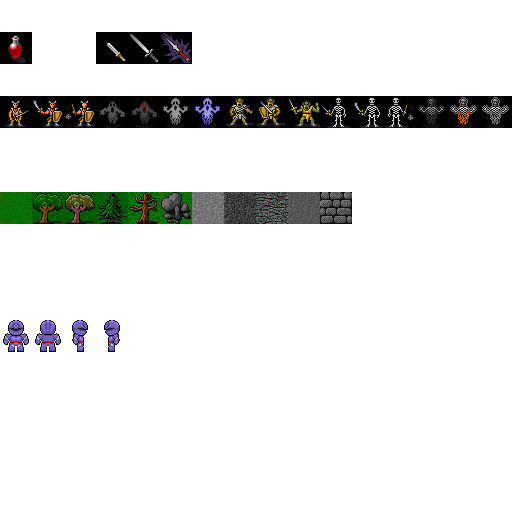
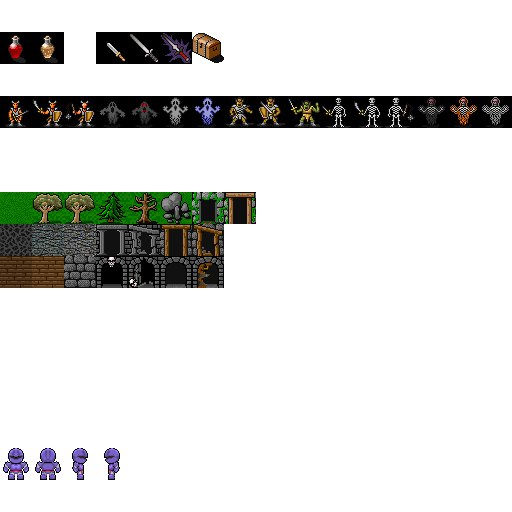
Improve themes and glyphs

diff --git a/resources/create_dungeonfont.py b/resources/create_dungeonfont.py
@@ -1,13 +1,15 @@
-from PIL import Image
+from PIL import Image, ImageEnhance
 
 PREFIX = "resources/glyphs/"
 
 glyphs = {
     # items ------------------------------
     16: "PotionRed.PNG",
+    17: "PotionRoundedTopaz.PNG",
     19: "Sword01.PNG",
     20: "SwordTwoHanded.PNG",
     21: "SwordMedievalMagical.PNG",
+    22: "chest.gif",
     # monsters -----------------------------
     48: "ImpFighter.PNG",
     49: "ImpFighter2.PNG",
@@ -27,24 +29,35 @@ glyphs = {
     63: "SpectreSilver.PNG",
     # tiles -------------------------------
     # grass theme
-    96: ("dg_grounds32.gif", 1, 1),  # grass
-    97: ("dg_grounds32.gif", 1, 6),  # tree1
-    98: ("dg_grounds32.gif", 4, 6),  # tree2
-    99: ("dg_grounds32.gif", 7, 6),  # tree3
-    100: ("dg_grounds32.gif", 7, 15),  # tree4
-    101: ("dg_grounds32.gif", 7, 18),  # rocks
+    96: ("dg_grounds32.gif", 0, 1, "darken", 0.8),  # grass
+    97: ("dg_grounds32.gif", 3, 6, "darken", 0.8),  # tree1
+    98: ("dg_grounds32.gif", 3, 6, "darken", 0.8),  # tree2
+    99: ("dg_grounds32.gif", 6, 6, "darken", 0.8),  # tree3
+    100: ("dg_grounds32.gif", 6, 15, "darken", 0.8),  # tree4
+    101: ("dg_grounds32.gif", 6, 18, "darken", 0.8),  # rocks
+    102: ("openSecretDoor21.gif", 0, 0, "darken", 0.9),  # exit
+    103: ("openDoor21.gif", 0, 0, "darken", 0.9),  # exit
     # cave theme
-    102: ("dg_grounds32.gif", 6, 0),  # cave floor
-    103: ("dg_features32.gif", 2, 10),  # cave wall
-    104: ("dg_features32.gif", 4, 1),  # cave wall2
+    112: ("floor13.gif", 0, 0, "darken", 0.5),  # cave floor
+    113: ("dg_features32.gif", 4, 1),  # cave wall
+    114: ("dg_features32.gif", 5, 1, "darken", 1.8),  # cave wall
+    115: ("dg_features32.gif", 1, 11),  # exit
+    116: ("dg_features32.gif", 2, 11),  # exit
+    117: ("dg_features32.gif", 1, 12),  # exit
+    118: ("dg_features32.gif", 2, 12),  # exit
     # dungeon theme
-    105: ("dg_grounds32.gif", 7, 0),  # dungeon floor
-    106: ("dg_features32.gif", 3, 10),  # dungeon wall
+    128: ("roomFloor32.gif", 0, 0, "darken", 0.5),  # dungeon floor
+    129: ("roomFloor32.gif", 0, 0, "darken", 0.6),  # dungeon floor
+    130: ("dg_features32.gif", 3, 10),  # dungeon wall
+    131: ("dg_features32.gif", 1, 2),  # exit
+    132: ("dg_features32.gif", 2, 2),  # exit
+    133: ("dg_features32.gif", 1, 7),  # exit
+    134: ("dg_features32.gif", 2, 7),  # exit
     # player ------------------------------
-    160: ("RPGCharacterSprites32x32.png", 1, 11),  # front
-    161: ("RPGCharacterSprites32x32.png", 5, 11),  # back
-    162: ("RPGCharacterSprites32x32.png", 9, 11),  # right
-    163: ("RPGCharacterSprites32x32.png", 9, 11, "flip"),  # left
+    224: ("RPGCharacterSprites32x32.png", 1, 11),  # front
+    225: ("RPGCharacterSprites32x32.png", 5, 11),  # back
+    226: ("RPGCharacterSprites32x32.png", 9, 11),  # right
+    227: ("RPGCharacterSprites32x32.png", 9, 11, "flip"),  # left
 }
 
 dungeonfont = Image.new("RGBA", (32 * 16, 32 * 16), (0, 0, 0, 0))
@@ -56,13 +69,19 @@ for index, glyph in glyphs.items():
     if isinstance(glyph, str):
         img = Image.open(PREFIX + glyph)
     else:
-        glyph, x_, y_, *flip = glyph
+        glyph, x_, y_, *args = glyph
         img = Image.open(PREFIX + glyph)
         x_ *= 32
         y_ *= 32
         img = img.crop((x_, y_, x_ + 32, y_ + 32))
-        if len(flip) > 0:
+
+        if "flip" in args:
             img = img.transpose(Image.FLIP_LEFT_RIGHT)
+
+        if "darken" in args:
+            amount = args[args.index("darken") + 1]
+            img = img.convert("RGBA")
+            img = ImageEnhance.Brightness(img).enhance(amount)
 
     if img.size != (32, 32):
         border = (img.size[0] - 32) // 2

diff --git a/src/map_builder/themes.rs b/src/map_builder/themes.rs
@@ -9,16 +9,17 @@ impl DungeonTheme {
 }
 
 impl MapTheme for DungeonTheme {
-    fn tile_to_render(&self, tile_type: TileType, _random: usize) -> FontCharType {
+    fn tile_to_render(&self, tile_type: TileType, random: usize) -> FontCharType {
+        let mut rng = RandomNumberGenerator::seeded(random as u64);
         match tile_type {
-            TileType::Floor => 105,
-            TileType::Wall => 106,
-            TileType::Exit => 0,
+            TileType::Floor => rng.range(128, 130),
+            TileType::Wall => 130,
+            TileType::Exit => rng.range(131, 135),
         }
     }
 
     fn get_darkness(&self) -> (u8, u8, u8) {
-        GREY20
+        GREY30
     }
 }
 
@@ -31,19 +32,39 @@ impl ForestTheme {
 }
 
 impl MapTheme for ForestTheme {
-    #[allow(clippy::cast_possible_truncation)]
-    #[allow(clippy::cast_sign_loss)]
-    #[allow(clippy::cast_precision_loss)]
     fn tile_to_render(&self, tile_type: TileType, random: usize) -> FontCharType {
         let mut rng = RandomNumberGenerator::seeded(random as u64);
         match tile_type {
             TileType::Floor => 96,
-            TileType::Wall => rng.range(97, 102), // 97-101
-            TileType::Exit => 0,
+            TileType::Wall => rng.range(97, 102),
+            TileType::Exit => rng.range(102, 104),
         }
     }
 
     fn get_darkness(&self) -> (u8, u8, u8) {
         GREY80
+    }
+}
+
+pub struct CaveTheme;
+
+impl CaveTheme {
+    pub fn new_boxed() -> Box<dyn MapTheme> {
+        Box::new(Self {})
+    }
+}
+
+impl MapTheme for CaveTheme {
+    fn tile_to_render(&self, tile_type: TileType, random: usize) -> FontCharType {
+        let mut rng = RandomNumberGenerator::seeded(random as u64);
+        match tile_type {
+            TileType::Floor => 112,
+            TileType::Wall => rng.range(113, 115),
+            TileType::Exit => 0,
+        }
+    }
+
+    fn get_darkness(&self) -> (u8, u8, u8) {
+        GREY10
     }
 }

diff --git a/src/systems/player_input.rs b/src/systems/player_input.rs
@@ -25,10 +25,10 @@ pub fn player_input(
 
     if let Some(key) = key {
         match key {
-            Left | A => move_player(ecs, commands, Point::new(-1, 0), 163),
-            Right | D => move_player(ecs, commands, Point::new(1, 0), 162),
-            Up | W => move_player(ecs, commands, Point::new(0, -1), 161),
-            Down | S => move_player(ecs, commands, Point::new(0, 1), 160),
+            Left | A => move_player(ecs, commands, Point::new(-1, 0), 227),
+            Right | D => move_player(ecs, commands, Point::new(1, 0), 226),
+            Up | W => move_player(ecs, commands, Point::new(0, -1), 225),
+            Down | S => move_player(ecs, commands, Point::new(0, 1), 224),
             G => pick_up_item(ecs, commands),
             Key1 => use_item(0, ecs, commands),
             Key2 => use_item(1, ecs, commands),

diff --git a/src/map_builder/mod.rs b/src/map_builder/mod.rs
@@ -1,12 +1,12 @@
-use crate::{map_builder::themes::ForestTheme, prelude::*};
+use crate::prelude::*;
 use log::info;
 use std::fmt::Debug;
 
 use self::{
     automata::CellularAutomataArchitect, drunkard::DrunkardsWalkArchitect, rooms::RoomsArchitect,
-    themes::DungeonTheme,
 };
 use prefab::apply_prefab;
+use themes::{CaveTheme, DungeonTheme, ForestTheme};
 
 mod automata;
 mod drunkard;
@@ -47,9 +47,10 @@ impl MapBuilder {
         let mut mb = architect.new_mapbuilder(rng);
         apply_prefab(&mut mb, rng);
 
-        mb.theme = match rng.range(0, 2) {
+        mb.theme = match rng.range(0, 3) {
             0 => DungeonTheme::new_boxed(),
-            _ => ForestTheme::new_boxed(),
+            1 => ForestTheme::new_boxed(),
+            _ => CaveTheme::new_boxed(),
         };
 
         mb

diff --git a/src/spawner/mod.rs b/src/spawner/mod.rs
@@ -12,11 +12,11 @@ pub fn spawn_player(ecs: &mut World, pos: Point) {
         pos,
         Render {
             color: ColorPair::new(WHITE, BLACK),
-            glyph: 160,
+            glyph: 224,
         },
         Health {
-            current: 10,
-            max: 10,
+            current: 100,
+            max: 100,
         },
         Name(String::from("You")),
         FieldOfView::new(8),
